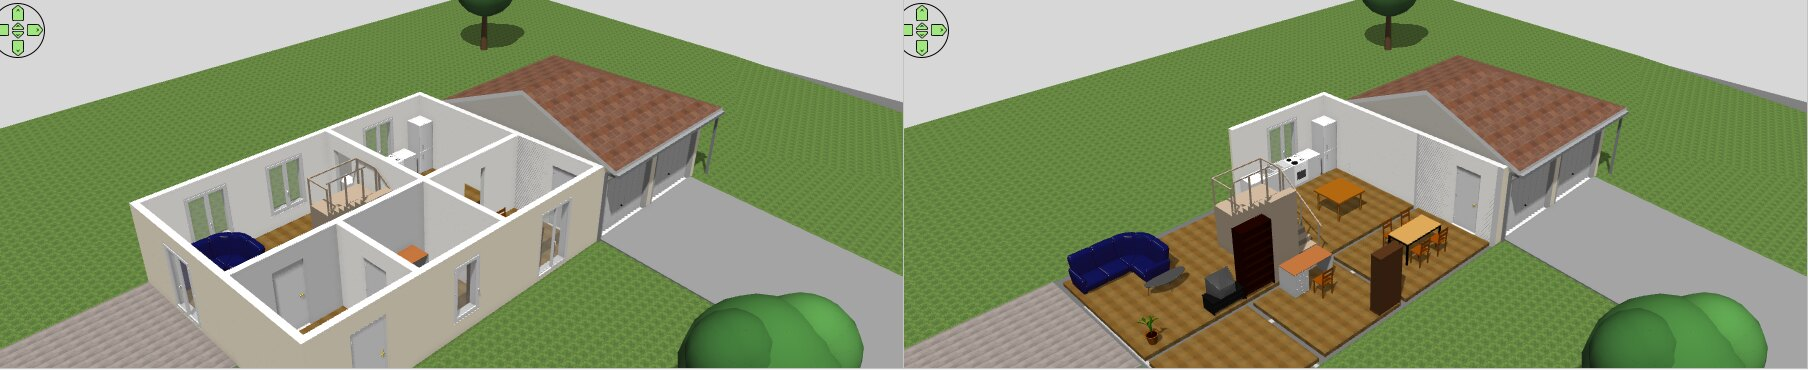
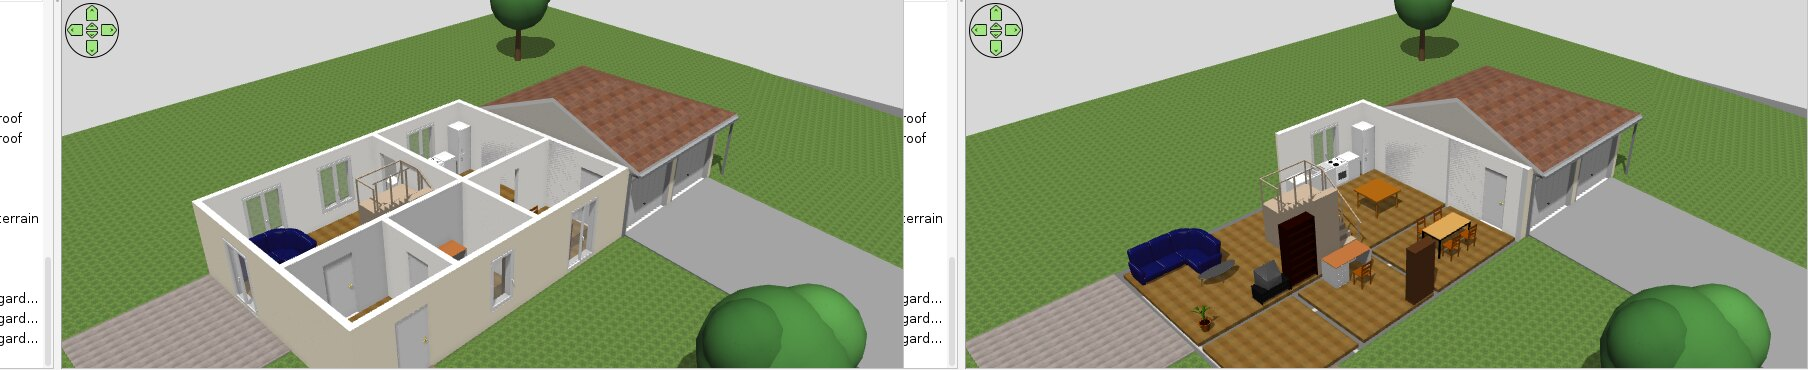
docs: help page, assistant examples, MCP instructions and pictures for 7.28
Claude-Session: https://claude.ai/code/session_01LAGvqRVr2txLEqBXQQRiy4

diff --git a/src/com/eteks/sweethome3d/viewcontroller/resources/help/en/thisEdition.html b/src/com/eteks/sweethome3d/viewcontroller/resources/help/en/thisEdition.html
@@ -39,11 +39,15 @@
           </tr>
           <tr valign="top"> 
             <td width="16"><p>&#149;</p></td>
-            <td><p><b>Tools &gt; Design assistant...</b> opens a chat that answers questions about the home and edits it. Choose your AI service and your key with <b>Settings...</b>. <b>Help &gt; What can I ask the assistant?</b> lists examples.</p></td>
+            <td><p><b>Tools &gt; Design assistant...</b> opens a chat that answers questions about the home and edits it. Choose your AI service and your key with <b>Settings...</b>. <b>Tools &gt; What can I ask the assistant?</b> lists examples.</p></td>
           </tr>
           <tr valign="top"> 
             <td width="16"><p>&#149;</p></td>
-            <td><p>Both can build a whole house: roofs over any shape with hips, gables and dormers, walls cut to the slope of a roof, slabs and ramps, and a ground with slopes.</p></td>
+            <td><p>Both can build a whole house: roofs over any shape with hips, gables and dormers, walls cut to the slope of a roof, ceilings that follow it, slabs and ramps, a ground with slopes, and the lot with its property lines and setbacks.</p></td>
+          </tr>
+          <tr valign="top"> 
+            <td width="16"><p>&#149;</p></td>
+            <td><p>Claude can also save versions of the home, compare and restore them, work on a copy, export the home, and see what you changed by hand. It writes the file of your home only if you tick <b>Allow saving this home in its file, and replacing files</b> in the window of the MCP server.</p></td>
           </tr>
           <tr valign="top"> 
             <td colspan="2"><p><b>Plan</b></p></td>
@@ -62,15 +66,30 @@
           </tr>
           <tr valign="top"> 
             <td width="16"><p>&#149;</p></td>
-            <td><p><b>Plan &gt; Home report and budget...</b> gives floor areas, wall surfaces and furniture counts, and a budget from unit prices.</p></td>
+            <td><p><b>Plan &gt; Garden</b> builds a fence, a hedge, a path or a planting bed along the line you drew with <b>Plan &gt; Create polylines</b> and selected.</p></td>
           </tr>
           <tr valign="top"> 
             <td width="16"><p>&#149;</p></td>
-            <td><p><b>Plan &gt; Export elevation drawing...</b> writes a drawing of the home seen from one of its sides.</p></td>
+            <td><p><b>Plan &gt; Electrical and plumbing symbols</b> adds outlets, switches, lights and plumbing symbols, on the selected wall or along the walls of the selected rooms.</p></td>
           </tr>
           <tr valign="top"> 
             <td width="16"><p>&#149;</p></td>
-            <td><p><b>File &gt; Versions...</b> keeps named copies of the home beside its file and compares them.</p></td>
+            <td><p><b>Plan &gt; Measure the selection</b> gives the free space around a piece of furniture, or the distance between two items.</p></td>
+          </tr>
+          <tr valign="top"> 
+            <td width="16"><p>&#149;</p></td>
+            <td><p><b>Plan &gt; Modify</b> groups what modifies walls, rooms, lines, dimensions and texts.</p></td>
+          </tr>
+          <tr valign="top"> 
+            <td colspan="2"><p><b>File</b></p></td>
+          </tr>
+          <tr valign="top"> 
+            <td width="16"><p>&#149;</p></td>
+            <td><p><b>File &gt; Versions...</b> keeps named copies of the home beside its file, compares them, and restores one in the home with <b>Restore in this home</b>.</p></td>
+          </tr>
+          <tr valign="top"> 
+            <td width="16"><p>&#149;</p></td>
+            <td><p><b>File &gt; Export</b> holds every export: the plan (SVG), the furniture list (CSV), the 3D model (OBJ), <b>Export elevation drawing...</b> and <b>Export elevation picture...</b> for a side of the building with its dimensions, <b>Export 360&deg; panorama...</b>, <b>Export to Blender...</b> and <b>Export 3D web page...</b>, a folder that anyone can open in a browser.</p></td>
           </tr>
           <tr valign="top"> 
             <td colspan="2"><p><b>Furniture</b></p></td>
@@ -82,6 +101,18 @@
           <tr valign="top"> 
             <td width="16"><p>&#149;</p></td>
             <td><p><b>Furniture &gt; Replace by the piece selected in catalog</b> swaps the selected furniture for the piece selected in the catalog, at the same place.</p></td>
+          </tr>
+          <tr valign="top"> 
+            <td width="16"><p>&#149;</p></td>
+            <td><p><b>Furniture &gt; Open the selected doors and windows...</b> turns their leaves by an angle, and <b>Close the selected doors and windows</b> shuts them. Only the models made with hinges open.</p></td>
+          </tr>
+          <tr valign="top"> 
+            <td width="16"><p>&#149;</p></td>
+            <td><p><b>Furniture &gt; Furnish the selected room...</b> places catalog furniture for a kind of room, clear of doors, windows and passages: a starting point to arrange by hand.</p></td>
+          </tr>
+          <tr valign="top"> 
+            <td width="16"><p>&#149;</p></td>
+            <td><p><b>Furniture &gt; Align and distribute</b> and <b>Furniture &gt; Import</b> group the alignments and the imports.</p></td>
           </tr>
           <tr valign="top"> 
             <td colspan="2"><p><b>3D view</b></p></td>
@@ -104,7 +135,22 @@
           </tr>
           <tr valign="top"> 
             <td width="16"><p>&#149;</p></td>
-            <td><p><b>3D view &gt; Export 360&deg; panorama...</b> and <b>3D view &gt; Export to Blender...</b> prepare a panorama to look around in, and a scene for a high quality picture.</p></td>
+            <td><p><b>3D view &gt; Sun at the date and time of the camera</b> lights and shadows the 3D view from where the sun is; <b>3D view &gt; Date and time of the sun...</b> chooses them, at the place of the compass.</p></td>
+          </tr>
+          <tr valign="top"> 
+            <td colspan="2"><p><b>Tools</b></p></td>
+          </tr>
+          <tr valign="top"> 
+            <td width="16"><p>&#149;</p></td>
+            <td><p><b>Tools &gt; Check the plan...</b> lists the defects of the plan (walls that don't meet, doors out of walls, walls beyond a setback...) and fixes the ones that can be.</p></td>
+          </tr>
+          <tr valign="top"> 
+            <td width="16"><p>&#149;</p></td>
+            <td><p><b>Tools &gt; Home report and budget...</b> gives floor areas, wall surfaces without their door and window openings, furniture counts, and a budget from unit prices.</p></td>
+          </tr>
+          <tr valign="top"> 
+            <td width="16"><p>&#149;</p></td>
+            <td><p><b>Tools &gt; Schedules</b> lists doors and windows, rooms, furniture and symbols as tables to export in CSV, and <b>Tools &gt; Framing estimate...</b> counts studs, plates and headers for a budget.</p></td>
           </tr>
           <tr valign="top"> 
             <td colspan="2"><p><b>Visiting the home</b></p></td>
@@ -120,10 +166,6 @@
           <tr valign="top"> 
             <td width="16"><p>&#149;</p></td>
             <td><p>In both, the key N pins a note on what you look at. <b>Tools &gt; Review notes...</b> lists the notes, and Claude can read them and do what they ask.</p></td>
-          </tr>
-          <tr valign="top"> 
-            <td width="16"><p>&#149;</p></td>
-            <td><p><b>Tools &gt; Export 3D web page...</b> writes a folder that anyone can open in a browser, without Sweet Home 3D.</p></td>
           </tr>
         </table></td>
     </tr>

diff --git a/src/com/eteks/sweethome3d/swing/HomePane.java b/src/com/eteks/sweethome3d/swing/HomePane.java
@@ -6366,9 +6366,34 @@ public class HomePane extends JRootPane implements HomeView {
         + "  - Use this picture as the floor texture of the kitchen, the tiles are 30 cm wide.\n"
         + "  - This is a photo of my armchair: add the closest piece and match its size and color.\n"
         + "  - Import /home/me/models/lamp.obj next to the bed, 150 cm high.\n\n"
+        + "Roofs, garden and site:\n"
+        + "  - Add two gable dormers with windows on the south slope of the roof.\n"
+        + "  - Make the roof 35 degrees and cut the walls of the first floor to it.\n"
+        + "  - Give the bedrooms under the roof a ceiling that follows it. How much headroom is there?\n"
+        + "  - Draw the lot 25 m by 22 m around the house with a 3 m setback, and check the house respects it.\n"
+        + "  - Put a picket fence around the lot with a gate in front of the driveway, and a hedge along the north side.\n"
+        + "  - Add a path of stepping stones from the gate to the front door.\n\n"
+        + "Arrange, light and measure:\n"
+        + "  - Furnish the selected room as a bedroom.\n"
+        + "  - Align these pieces against the north wall and space them evenly.\n"
+        + "  - How much free space is there around the dining table?\n"
+        + "  - Open the front door at 80 degrees.\n"
+        + "  - Make the fabric of the sofa dark blue, not its legs.\n"
+        + "  - Show the sun on June 21 at 5 pm in the 3D view.\n\n"
+        + "Lists and documents:\n"
+        + "  - Give me the door and window schedule, and save it as a CSV file.\n"
+        + "  - Put outlets every 3.6 m along the walls of the living room.\n"
+        + "  - Estimate the studs needed for the walls of the first floor.\n"
+        + "  - Flooring costs 45 in the kitchen and 30 elsewhere: what is the budget?\n\n"
         + "Check and repair:\n"
         + "  - Check my home for problems.\n"
         + "  - Fix the walls that don't meet.\n\n"
+        + "With Claude through the MCP server (not in this chat):\n"
+        + "  - Save a version before you start, and tell me what changed when you are done.\n"
+        + "  - Go back to the version from before the new roof.\n"
+        + "  - Try this on a copy of my home.\n"
+        + "  - Export the south elevation with its dimensions, and the home as a PDF.\n"
+        + "  - What did I change by hand since you last looked?\n\n"
         + "Claude can do the same from outside the application: see Tools > Claude MCP server.";
     JTextArea textArea = new JTextArea(examples);
     textArea.setEditable(false);

diff --git a/src/com/eteks/sweethome3d/viewcontroller/HomeMCPHandler.java b/src/com/eteks/sweethome3d/viewcontroller/HomeMCPHandler.java
@@ -644,7 +644,17 @@ public class HomeMCPHandler {
         + "The user may have left review notes while visiting the home (get_notes): requests pinned to a wall, "
         + "a piece of furniture or a room; do them and mark each one with update_note. "
         + "Every apply_commands call is one step of the application's "
-        + "Undo, also available through the undo tool.");
+        + "Undo, also available through the undo tool (\"steps\":N for several; get_history lists them). "
+        + "Before a large change, save_version keeps a checkpoint that compare_versions and restore_version use; "
+        + "save_home writes the file of the home only if the user allowed saving, and otherwise a copy in a new file (copy_to), "
+        + "which open_home opens to work on it. get_changes tells what the user changed by hand between your calls. "
+        + "export_home writes the home as PDF, SVG, OBJ, CSV, a 3D web page or a panorama, and get_elevation_image draws a side "
+        + "of the building square on with its dimensions. Other commands of apply_commands: group, align, distribute, mirror "
+        + "and measure (distances, the free space around a piece, what is at a point); set_light, set_sun, set_environment, "
+        + "open_door and set_material (one material of a model); add_fence, add_hedge, add_path, add_planting_bed and add_trees "
+        + "for the garden; furnish_room places the furniture of a kind of room by rules, as a starting point; "
+        + "schedule, add_symbol, add_symbols and framing_estimate list doors, windows and rooms, add electrical and plumbing "
+        + "symbols and estimate framing; set_unit_prices also takes a room or a wall.");
     return result;
   }
 

diff --git a/docs/README.md b/docs/README.md
@@ -5,13 +5,13 @@
 | Guide | What it covers |
 | --- | --- |
 | [Getting started](GETTING_STARTED.md) | Install, the window, a first home, where each addition is in the menus |
-| [Connecting Claude (MCP server)](MCP_SERVER.md) | Setup with Claude Desktop and Claude Code, the tools, pictures of the plan and the 3D view, security, troubleshooting |
+| [Connecting Claude (MCP server)](MCP_SERVER.md) | Setup with Claude Desktop and Claude Code, the tools, versions and saving, exports, pictures of the plan and the 3D view, elevations, security, troubleshooting |
 | [Command reference](MCP_COMMANDS.md) | Every edit command of the MCP server and of the design assistant |
 | [House modeling tutorial](HOUSE_MODELING_TUTORIAL.md) | A two-storey house with roofs, dormers, a garage and a sloped garden, step by step |
 | [Design assistant](AI_ASSISTANT.md) | The chat inside the application, with your own AI provider |
-| [Design tools](DESIGN_TOOLS.md) | Replace furniture, room shapes, styles, report and budget, versions, elevation drawings, 3D web page |
+| [Design tools](DESIGN_TOOLS.md) | Replace furniture, room shapes, styles, report and budget, versions, elevation drawings, 3D web page, and the menu items for garden, symbols, schedules, furnishing, doors and the sun |
 | [Tags, layers and furniture made by the AI](LAYERS_AND_FURNITURE_LIBRARIES.md) | Tags and layers of furniture, furniture built from parts, furniture libraries |
-| [3D view navigation](VIEW_3D_NAVIGATION.md) | Zoom, standard views, doll house display, 360 degree panorama, room dimensions |
+| [3D view navigation](VIEW_3D_NAVIGATION.md) | Zoom, standard views, doll house display, the sun at a date and a time, 360 degree panorama, room dimensions |
 | [OpenGL renderer](OPENGL_RENDERER.md) | The optional renderer of the 3D view: quality options, measurements, limits |
 | [Walking through a home in VR](WEBXR_VR.md) | Meta Quest and SteamVR headsets, through the browser |
 | [Game mode](GAME_MODE.md) | The home played as a video game in the browser |

diff --git a/AGENTS.md b/AGENTS.md
@@ -38,7 +38,8 @@ UTF-8/ASCII.
   `docs/images`: the screenshots of the guides, regenerated by
   `docs/tools/screenshots/make-screenshots.sh` (see its README).
 - `docs/MCP_SERVER.md`: the local MCP server (Tools > Claude MCP server...)
-  that lets Claude and other MCP clients read and edit the open home.
+  that lets Claude and other MCP clients read and edit the open home, save
+  versions and copies of it, export it, and see what the user changed by hand.
 - `docs/MCP_COMMANDS.md`: the reference of the edit commands. Update it with
   `HomeAssistantContext.getCommandReference()`.
 - `docs/HOUSE_MODELING_TUTORIAL.md`: a house built step by step through the
@@ -47,11 +48,14 @@ UTF-8/ASCII.
   (Furniture > Layers and tags...), and the commands that let the assistant or
   Claude build furniture from parts and write furniture libraries.
 - `docs/VIEW_3D_NAVIGATION.md`: zoom of the 3D view (wheel, keys, tool bar
-  buttons), standard views, and Plan > Add room dimensions.
+  buttons), standard views, the sun at a date and a time, and Plan > Add room
+  dimensions.
 - `docs/GAP_ANALYSIS.md`: what comparable programs offer, what exists here,
   and the prioritized list of what is still missing.
 - `docs/DESIGN_TOOLS.md`: replace furniture in place, room shapes, decoration
-  styles, the home report and the 3D web page export.
+  styles, the home report, the 3D web page export, and the menu items that run
+  the commands of the assistant by hand (`swing/HomeToolsMenus`: garden,
+  symbols, schedules, furnishing a room, doors, the sun, measures).
 - `docs/GAME_MODE.md`: Tools > Game mode... - the home played as a video game
   in the browser (walk, jump, climb, fly, doors, breaking), and its physics.
 - `docs/REVIEW_NOTES.md`: notes pinned to walls, furniture and rooms while

diff --git a/docs/HOUSE_MODELING_TUTORIAL.md b/docs/HOUSE_MODELING_TUTORIAL.md
@@ -325,6 +325,12 @@ Save the home with **File > Save**: the tools can't.
 | Add a cross gable | `add_dormer` with `"setback":0` and `"ridge":"match"`, then `fit_walls_to_roof` |
 | Know the headroom under the slopes | `headroom` |
 | Draw the lot, its setbacks and its stakes, from a survey if you have one | `add_property_line`, `add_setback`, `import_parcel` ([Command reference](MCP_COMMANDS.md#site-lot-lines-setbacks-and-georeference)) |
+| Keep a checkpoint, compare with it, come back to it | `save_version`, `compare_versions`, `restore_version` ([MCP server](MCP_SERVER.md#versions-and-saving)) |
+| Fence the lot, plant a hedge, lay a path | `add_fence`, `add_hedge`, `add_path`, `add_planting_bed` ([Command reference](MCP_COMMANDS.md#garden)) |
+| Furnish the rooms as a starting point | `furnish_room` ([Command reference](MCP_COMMANDS.md#furnishing-a-room-by-itself)) |
+| See the sun on a day and at an hour | `set_sun` with `"follow":true` ([Command reference](MCP_COMMANDS.md#lights-sun-doors-and-materials)) |
+| Get an elevation with dimensions, or the home as PDF or OBJ | `get_elevation_image`, `export_home` ([MCP server](MCP_SERVER.md#exports)) |
+| List doors and windows, add outlets, estimate framing | `schedule`, `add_symbols`, `framing_estimate` ([Command reference](MCP_COMMANDS.md#schedules-symbols-and-framing)) |
 | Undo a house built in many calls at once | `begin_group` ... `end_group` ([Command reference](MCP_COMMANDS.md#undo-groups)) |
 | Give a wall a brick base | `modify_wall` with a `baseboard` 90 cm high and a brick texture ([Command reference](MCP_COMMANDS.md#rooms-and-walls)) |
 | Raise or sink the floor of a room | `modify_room` with `floor_offset` |

diff --git a/docs/VIEW_3D_NAVIGATION.md b/docs/VIEW_3D_NAVIGATION.md
@@ -86,6 +86,21 @@ a setting of the 3D view, off again at the next start.
 In this picture **3D view > Display selected level** also leaves out the first
 floor and the roof.
 
+## Sun at a date and a time
+
+**3D view > Sun at the date and time of the camera** lights and shadows the
+3D view from where the sun is, in place of its fixed lights. **3D view >
+Date and time of the sun...** chooses the date and the local time; the place
+is the latitude, the longitude and the time zone of the compass (**Plan >
+Modify compass...**), and the north of the plan is its north direction. At
+night the view is dimmed. Shadows need the OpenGL renderer with **Shadows**
+ticked in **3D view > OpenGL renderer quality**.
+
+The choice is stored in the home. The ray tracer of **3D view > Create
+photo...** always used the date and the time of the camera; this brings the
+same sun to the live view. The assistant and Claude set it with `set_sun`
+([Command reference](MCP_COMMANDS.md#lights-sun-doors-and-materials)).
+
 ## 360 degree panorama
 
 **File > Export > Export 360° panorama...** computes a picture of everything around

diff --git a/docs/DESIGN_TOOLS.md b/docs/DESIGN_TOOLS.md
@@ -13,6 +13,7 @@ Most are also commands of the design assistant and of the MCP server
 | [Versions of a home](#versions-of-a-home) | **File > Versions...** |
 | [Elevation drawings](#elevation-drawings) | **File > Export > Export elevation drawing...** |
 | [3D web page to share](#3d-web-page-to-share) | **File > Export > Export 3D web page...** |
+| [Menus for the commands](#menus-for-the-commands) | Garden, symbols, schedules, furnishing a room, doors, the sun, measures |
 
 ## Replace furniture in place
 
